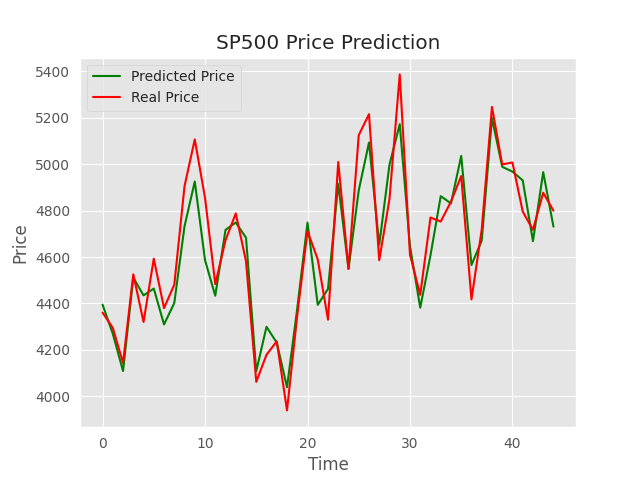
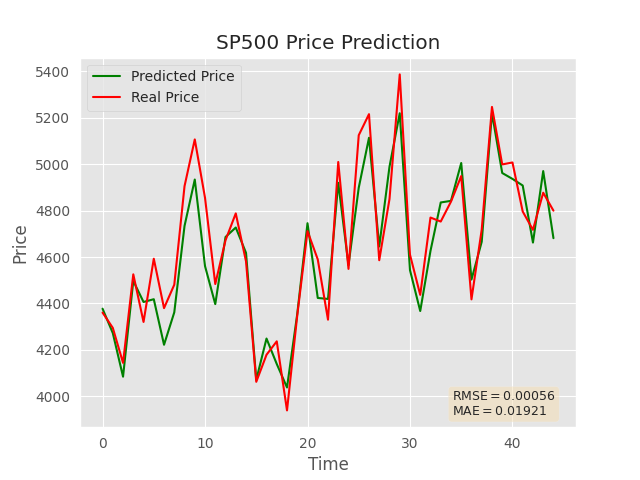
plot update

diff --git a/test.py b/test.py
@@ -1,6 +1,7 @@
 from train import mymodel
 from data_process import *
 import matplotlib.pyplot as plt
+from matplotlib.patches import Patch
 from packaging import version
 import os
 #matplotlib inline
@@ -24,7 +25,15 @@ for j in range(len_train,len_train+len(x_close_test)):
 
 
 #real stock loss
-plt.figure(2)
+fig, ax = plt.subplots()
+textstr = '\n'.join((
+    r'$\mathrm{RMSE}=%.5f$' % (rmse),
+     r'$\mathrm{MAE}=%.5f$' % (mae)))
+props = dict(boxstyle='round', facecolor='wheat', alpha=0.5)
+
+# place a text box in upper left in axes coords
+ax.text(0.75, 0.1, textstr, transform=ax.transAxes, fontsize=9,
+        verticalalignment='top', bbox=props)
 plt.plot(predicted, color = 'green', label = 'Predicted Price')
 plt.plot(test_label, color = 'red', label = 'Real Price')
 plt.title(sys.argv[2]+' Price Prediction')
